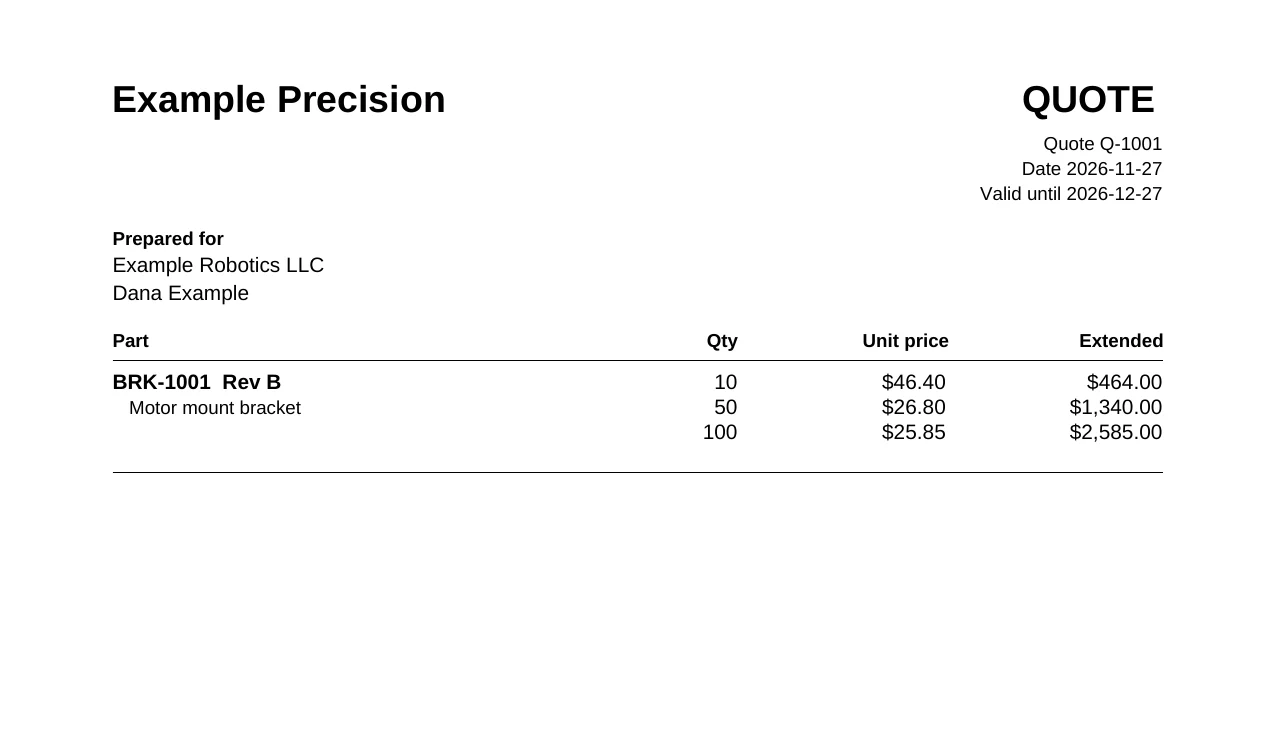
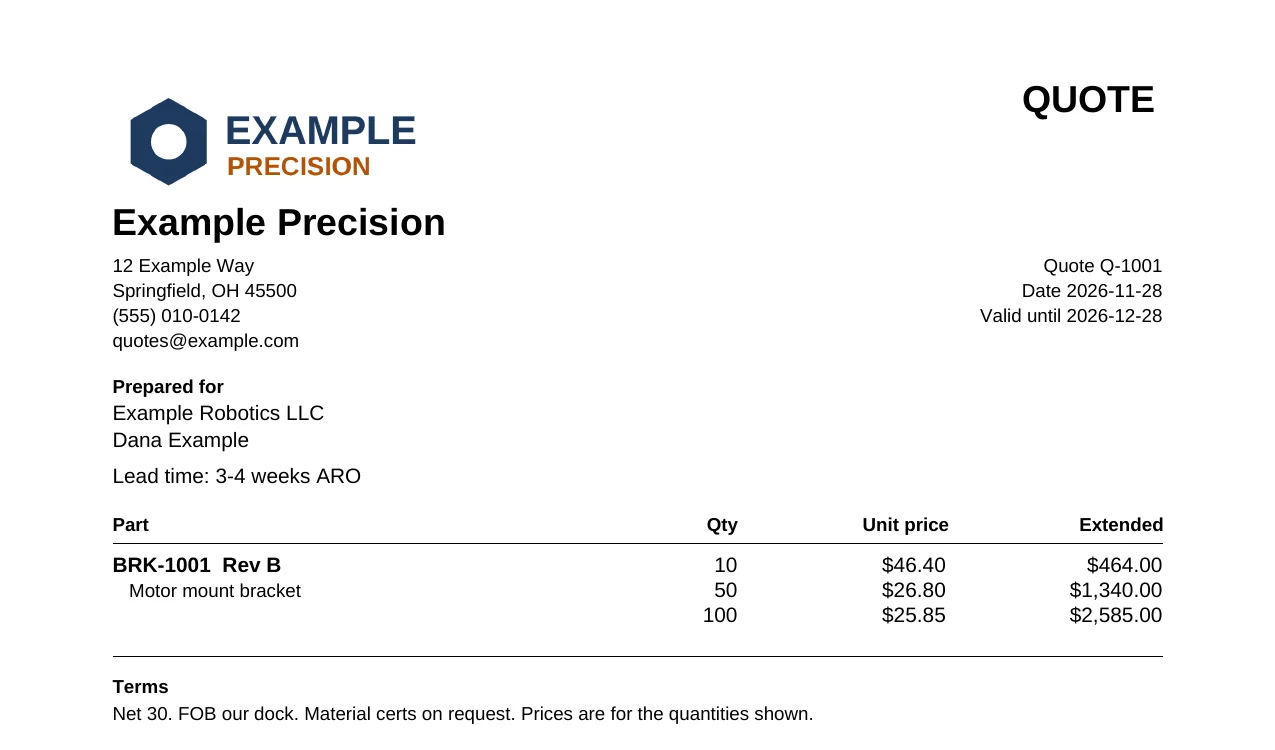
polish: jobshop site shows the quote log and a quote on letterhead [jobshop-quote]
pnpm stills sets the made-up shop's logo, contact lines, lead time and
terms, quotes three more RFQs (won, lost, draft) and shoots the quote
log; the home band gains an "After it's sent" row, the PDF still shows
the letterhead on home, how-it-works and the quote template page.

Prompt-Version: polish/0
Claude-Session: https://claude.ai/code/session_01AcxTtLzBjGfkfbLgZE6Dve

diff --git a/ventures/jobshop-quote/apps/jobshop-quote/test/stills/capture.stills.ts b/ventures/jobshop-quote/apps/jobshop-quote/test/stills/capture.stills.ts
@@ -108,6 +108,54 @@ test("stills of a made-up machine shop quote", async ({ page, browser }) => {
   await page.evaluate(() => window.scrollBy(0, -40));
   await shot(page, "rate-card-desktop");
 
+  // The shop's letterhead on every quote PDF: contact lines, lead time, terms and a logo. The logo is
+  // drawn here on a canvas (an invented mark and the made-up shop's name), not taken from anyone.
+  const rules = card(page, "Shop and pricing rules");
+  await field(rules, "Phone").fill("(555) 010-0142");
+  await field(rules, "Email").fill("quotes@example.com");
+  await field(rules, "Address (one line each)").fill("12 Example Way\nSpringfield, OH 45500");
+  await field(rules, "Default lead time").fill("3-4 weeks ARO");
+  await field(rules, "Terms (printed on quotes)").fill(
+    "Net 30. FOB our dock. Material certs on request. Prices are for the quantities shown.",
+  );
+  await rules.getByRole("button", { name: "Save" }).click();
+  await settle(page);
+  const logo = await page.evaluate(async () => {
+    const c = document.createElement("canvas");
+    c.width = 720;
+    c.height = 216;
+    const g = c.getContext("2d");
+    if (!g) return "";
+    g.fillStyle = "#ffffff";
+    g.fillRect(0, 0, c.width, c.height);
+    // A hexagon (a nut seen end-on) with a bore, then the shop's name.
+    g.fillStyle = "#1e3a5f";
+    g.beginPath();
+    for (let i = 0; i < 6; i++) {
+      const a = (Math.PI / 3) * i + Math.PI / 6;
+      g.lineTo(108 + 84 * Math.cos(a), 108 + 84 * Math.sin(a));
+    }
+    g.closePath();
+    g.fill();
+    g.fillStyle = "#ffffff";
+    g.beginPath();
+    g.arc(108, 108, 34, 0, Math.PI * 2);
+    g.fill();
+    g.fillStyle = "#1e3a5f";
+    g.font = "bold 76px sans-serif";
+    g.fillText("EXAMPLE", 216, 112);
+    g.fillStyle = "#b45309";
+    g.font = "600 50px sans-serif";
+    g.fillText("PRECISION", 220, 172);
+    return c.toDataURL("image/png").split(",")[1] ?? "";
+  });
+  await page.getByLabel("Upload logo").setInputFiles({
+    name: "example-precision-logo.png",
+    mimeType: "image/png",
+    buffer: Buffer.from(logo, "base64"),
+  });
+  await expect(page.getByAltText("Shop logo as it prints on quotes")).toBeVisible();
+
   // An RFQ whose part is entered by hand (the offline extractor may add an empty part; it is removed).
   await page.getByRole("link", { name: "RFQs" }).click();
   const newRfq = card(page, "New RFQ");
@@ -273,7 +321,112 @@ test("stills of a made-up machine shop quote", async ({ page, browser }) => {
   renameSync(join(OUT, "customer-pdf-page1.png"), join(OUT, "customer-pdf.png"));
   await buyer.close();
 
+  // The quote log: three more made-up RFQs quoted the same way, one won, one lost, one still a
+  // draft, so the log, its totals and the follow-up list show a shop's week rather than one quote.
+  const more = [
+    {
+      subject: "Sensor plates",
+      company: "Sample Fluidics Inc.",
+      contact: "Lee Sample",
+      part: "SP-220",
+      desc: "Sensor plate",
+      qty: "25, 100",
+      l: "6",
+      w: "4",
+      t: "0.375",
+      setup: "45",
+      cycle: "9",
+      outcome: "won",
+    },
+    {
+      subject: "Cover plates, rush",
+      company: "Demo Aero Components",
+      contact: "Pat Demo",
+      part: "CVR-12",
+      desc: "Access cover",
+      qty: "20",
+      l: "8",
+      w: "5",
+      t: "0.25",
+      setup: "40",
+      cycle: "15",
+      outcome: "lost",
+    },
+    {
+      subject: "Fixture blocks",
+      company: "Example Robotics LLC",
+      contact: "Dana Example",
+      part: "FXB-3",
+      desc: "Fixture block",
+      qty: "4",
+      l: "5",
+      w: "3",
+      t: "2",
+      setup: "90",
+      cycle: "35",
+      outcome: "draft",
+    },
+  ] as const;
+  for (const m of more) {
+    await page.getByRole("link", { name: "RFQs" }).click();
+    const rfq = card(page, "New RFQ");
+    await field(rfq, "Subject").fill(m.subject);
+    await field(rfq, "Paste the RFQ email").fill(`Please quote ${m.part}, drawing attached.`);
+    await rfq.getByRole("button", { name: "Create and extract" }).click();
+    await page.waitForURL(/\/rfqs\/[^/]+$/);
+    await expect(page.getByRole("heading", { level: 1, name: m.subject })).toBeVisible();
+    const who = card(page, "Customer");
+    await field(who, "Company").fill(m.company);
+    await field(who, "Contact").fill(m.contact);
+    await who.getByRole("button", { name: "Save" }).click();
+    await settle(page);
+    while ((await parts.count()) > 0) {
+      const n = await parts.count();
+      await parts.first().getByRole("button", { name: "Remove" }).click();
+      await expect(parts).toHaveCount(n - 1);
+    }
+    await page.getByRole("button", { name: "Add part by hand" }).click();
+    await field(parts.first(), "Part number").fill(m.part);
+    const pc = card(page, new RegExp(`^${m.part}`));
+    await field(pc, "Description").fill(m.desc);
+    await field(pc, "Quantities").fill(m.qty);
+    await field(pc, "Rate-card material").selectOption({ label: "Aluminum 6061-T6 plate" });
+    await pc.getByRole("button", { name: "Save" }).click();
+    await settle(page);
+    await pc.getByRole("button", { name: "Confirm" }).click();
+    await expect(pc.getByText("confirmed", { exact: true })).toBeVisible();
+    await page.getByRole("button", { name: "Quote 1 confirmed part" }).click();
+    await page.waitForURL(/\/quotes\/[^/]+$/);
+    const ln = card(page, new RegExp(`^${m.part}`));
+    await field(ln, "Blank").selectOption({ label: "Plate / block (L×W×T in)" });
+    await field(ln, "Length in").fill(m.l);
+    await field(ln, "Width in").fill(m.w);
+    await field(ln, "Thickness in").fill(m.t);
+    await ln.getByRole("button", { name: "+ Operation" }).click();
+    await field(ln, "Op").fill("Op 10 mill");
+    await field(ln, "Setup min").fill(m.setup);
+    await field(ln, "Cycle min/pc").fill(m.cycle);
+    await ln.getByRole("button", { name: "Save line" }).click();
+    await expect(ln.getByText("priced", { exact: true })).toBeVisible();
+    if (m.outcome === "draft") continue;
+    await page.getByRole("button", { name: "Mark sent" }).click();
+    const outcome = card(page, "Outcome");
+    await expect(outcome).toBeVisible();
+    if (m.outcome === "won") {
+      await field(outcome, "PO number").fill("PO-4417");
+      await outcome.getByRole("button", { name: "Won", exact: true }).click();
+    } else {
+      await field(outcome, "Lost reason").fill("lead time");
+      await outcome.getByRole("button", { name: "Lost", exact: true }).click();
+    }
+    await expect(page.getByText(m.outcome, { exact: true }).first()).toBeVisible();
+  }
+  await page.goto(orgPath);
+  await expect(card(page, "Quote log").getByRole("row")).toHaveCount(5);
+  await shot(page, "quote-log-desktop");
+
   for (const name of [
+    "quote-log-desktop",
     "rate-card-desktop",
     "quote-line-desktop",
     "quote-phone",

diff --git a/ventures/jobshop-quote/apps/jobshop-site/src/site/pages.ts b/ventures/jobshop-quote/apps/jobshop-site/src/site/pages.ts
@@ -102,13 +102,19 @@ export const SHOTS = {
     file: "customer-pdf.webp",
     width: 1275,
     height: 750,
-    alt: "The top of the quote PDF the customer receives: the shop's name, Example Precision, and QUOTE with quote number Q-1001, the date and a valid-until date a month later; prepared for Example Robotics LLC, Dana Example; then part BRK-1001 Rev B, motor mount bracket, at 10, 50 and 100 pieces for $46.40, $26.80 and $25.85 each ($464.00, $1,340.00 and $2,585.00). No costs, rates or markup appear.",
+    alt: "The top of the quote PDF the customer receives, on the shop's letterhead: a made-up logo (a hexagon and the words Example Precision), the shop's name, address, phone and email, and QUOTE with quote number Q-1001, the date and a valid-until date a month later; prepared for Example Robotics LLC, Dana Example, with a lead time of 3-4 weeks ARO; part BRK-1001 Rev B, motor mount bracket, at 10, 50 and 100 pieces for $46.40, $26.80 and $25.85 each ($464.00, $1,340.00 and $2,585.00); and the shop's terms, Net 30, FOB our dock. No costs, rates or markup appear.",
   },
   customerPage: {
     file: "customer-quote-phone.webp",
     width: 390,
-    height: 944,
-    alt: "The customer's page for the same quote on a phone, opened from a link with no account: the shop's name, the quote number and dates, a link to the PDF as sent, and an Accept this quote form where the buyer picks 10, 50 or 100 of BRK-1001 at the quoted prices or not ordering the part, sees the total, types their name, email, PO number and a note, and accepts the quote or declines it.",
+    height: 1082,
+    alt: "The customer's page for the same quote on a phone, opened from a link with no account: the shop's name and contact lines, the quote number, dates and lead time, a link to the PDF as sent, and an Accept this quote form where the buyer picks 10, 50 or 100 of BRK-1001 at the quoted prices or not ordering the part, sees the total, types their name, email, PO number and a note, and accepts the quote or declines it, with the shop's terms below.",
+  },
+  quoteLog: {
+    file: "quote-log-desktop.webp",
+    width: 1280,
+    height: 860,
+    alt: "The quote log in Job Shop Quote for a made-up shop: totals for open quotes (1), win rate (50%, 1 won of 2 decided), won ($536.25) and quoted ($1,635.25); a follow-up card with one follow-up coming up in the next 7 days and the days-after-sending setting; and four quotes, Q-1004 draft for Example Robotics LLC ($422.12), Q-1003 lost on lead time to Demo Aero Components ($635.00), Q-1002 won from Sample Fluidics Inc. ($536.25) and Q-1001 sent to Example Robotics LLC ($464.00).",
   },
 } as const;
 
@@ -145,13 +151,15 @@ function appShots(ctx: RenderContext): Html {
     <div class="shots">
       <figure class="shot shot-wide">
         <a class="shot-link" href="${href(ctx, `/shots/${SHOTS.customerPdf.file}`)}">${shotImg(ctx, SHOTS.customerPdf)}</a>
-        <figcaption>The quote PDF: prices for each quantity break and the dates, with your notes and terms when you set them. The costs, rates and markup behind them stay in the app.</figcaption>
+        <figcaption>The quote PDF on your letterhead: your logo and contact lines, prices for each quantity break, the dates, the lead time and your terms. The costs, rates and markup behind them stay in the app.</figcaption>
       </figure>
       <figure class="shot shot-phone">
         ${shotImg(ctx, SHOTS.customerPage)}
         <figcaption>The link you can send with it: the customer picks a quantity, adds a PO number and accepts, or declines, with no account.</figcaption>
       </figure>
     </div>
+    <h3 class="center shots-sub">After it's sent</h3>
+    ${shotFigure(ctx, SHOTS.quoteLog, "The quote log: every quote with its status and value, your win rate, and the sent quotes due for a follow-up, so an open quote doesn't go quiet. Four made-up quotes for three made-up customers.")}
     <p class="center"><a class="link" href="${href(ctx, "/how-it-works")}">How the price is built, step by step →</a></p>
   </div>
 </section>`;
@@ -407,7 +415,7 @@ export function howItWorksPage(ctx: RenderContext): Html {
       or have ${SITE_NAME} email it from your estimator's send button. It never sends a quote on its own.
       With it can go a link where the customer picks a quantity and accepts, with a PO number, or
       declines; the answer shows on the quote, which is marked won or lost.</p>
-      ${shotFigure(ctx, SHOTS.customerPdf, "What the customer receives: prices for every quantity break, the dates, your notes and terms when set, and none of the costs, rates or markup behind them. Made-up shop and customer.")}`,
+      ${shotFigure(ctx, SHOTS.customerPdf, "What the customer receives, on your letterhead: your logo and contact lines, prices for every quantity break, the dates, lead time and terms, and none of the costs, rates or markup behind them. Made-up shop, logo and customer.")}`,
     },
   ];
   const wont = [
@@ -1642,6 +1650,7 @@ export function quoteTemplatePage(ctx: RenderContext): Html {
     checks and sends it; the customer gets a link to accept or decline, and the app reminds you about
     follow-ups and quotes about to expire. You can
     <a class="link" href="${href(ctx, "/how-it-works")}">see how a quote is built</a>.</p>
+    ${shotFigure(ctx, SHOTS.customerPdf, "A quote from the app, on a made-up shop's letterhead: the same header, customer, quantity breaks and terms as the template, filled in from the rate card.")}
     <p class="fineprint">This page describes common practice for job-shop quotes. It is not legal, tax or
     financial advice, and the example's names, dates and prices are made up. Check every quote before you
     send it.</p>

diff --git a/ventures/jobshop-quote/apps/jobshop-site/catalogue-export/index.html b/ventures/jobshop-quote/apps/jobshop-site/catalogue-export/index.html
@@ -98,14 +98,19 @@
     <h3 class="center shots-sub">What your customer gets</h3>
     <div class="shots">
       <figure class="shot shot-wide">
-        <a class="shot-link" href="/jobshop/shots/customer-pdf.webp"><img src="/jobshop/shots/customer-pdf.webp" width="1275" height="750" loading="lazy" decoding="async" alt="The top of the quote PDF the customer receives: the shop&#39;s name, Example Precision, and QUOTE with quote number Q-1001, the date and a valid-until date a month later; prepared for Example Robotics LLC, Dana Example; then part BRK-1001 Rev B, motor mount bracket, at 10, 50 and 100 pieces for $46.40, $26.80 and $25.85 each ($464.00, $1,340.00 and $2,585.00). No costs, rates or markup appear."></a>
-        <figcaption>The quote PDF: prices for each quantity break and the dates, with your notes and terms when you set them. The costs, rates and markup behind them stay in the app.</figcaption>
+        <a class="shot-link" href="/jobshop/shots/customer-pdf.webp"><img src="/jobshop/shots/customer-pdf.webp" width="1275" height="750" loading="lazy" decoding="async" alt="The top of the quote PDF the customer receives, on the shop&#39;s letterhead: a made-up logo (a hexagon and the words Example Precision), the shop&#39;s name, address, phone and email, and QUOTE with quote number Q-1001, the date and a valid-until date a month later; prepared for Example Robotics LLC, Dana Example, with a lead time of 3-4 weeks ARO; part BRK-1001 Rev B, motor mount bracket, at 10, 50 and 100 pieces for $46.40, $26.80 and $25.85 each ($464.00, $1,340.00 and $2,585.00); and the shop&#39;s terms, Net 30, FOB our dock. No costs, rates or markup appear."></a>
+        <figcaption>The quote PDF on your letterhead: your logo and contact lines, prices for each quantity break, the dates, the lead time and your terms. The costs, rates and markup behind them stay in the app.</figcaption>
       </figure>
       <figure class="shot shot-phone">
-        <img src="/jobshop/shots/customer-quote-phone.webp" width="390" height="944" loading="lazy" decoding="async" alt="The customer&#39;s page for the same quote on a phone, opened from a link with no account: the shop&#39;s name, the quote number and dates, a link to the PDF as sent, and an Accept this quote form where the buyer picks 10, 50 or 100 of BRK-1001 at the quoted prices or not ordering the part, sees the total, types their name, email, PO number and a note, and accepts the quote or declines it.">
+        <img src="/jobshop/shots/customer-quote-phone.webp" width="390" height="1082" loading="lazy" decoding="async" alt="The customer&#39;s page for the same quote on a phone, opened from a link with no account: the shop&#39;s name and contact lines, the quote number, dates and lead time, a link to the PDF as sent, and an Accept this quote form where the buyer picks 10, 50 or 100 of BRK-1001 at the quoted prices or not ordering the part, sees the total, types their name, email, PO number and a note, and accepts the quote or declines it, with the shop&#39;s terms below.">
         <figcaption>The link you can send with it: the customer picks a quantity, adds a PO number and accepts, or declines, with no account.</figcaption>
       </figure>
     </div>
+    <h3 class="center shots-sub">After it's sent</h3>
+    <figure class="shot">
+  <a class="shot-link" href="/jobshop/shots/quote-log-desktop.webp"><img src="/jobshop/shots/quote-log-desktop.webp" width="1280" height="860" loading="lazy" decoding="async" alt="The quote log in Job Shop Quote for a made-up shop: totals for open quotes (1), win rate (50%, 1 won of 2 decided), won ($536.25) and quoted ($1,635.25); a follow-up card with one follow-up coming up in the next 7 days and the days-after-sending setting; and four quotes, Q-1004 draft for Example Robotics LLC ($422.12), Q-1003 lost on lead time to Demo Aero Components ($635.00), Q-1002 won from Sample Fluidics Inc. ($536.25) and Q-1001 sent to Example Robotics LLC ($464.00)."></a>
+  <figcaption>The quote log: every quote with its status and value, your win rate, and the sent quotes due for a follow-up, so an open quote doesn&#39;t go quiet. Four made-up quotes for three made-up customers.</figcaption>
+</figure>
     <p class="center"><a class="link" href="/jobshop/how-it-works">How the price is built, step by step →</a></p>
   </div>
 </section>

diff --git a/ventures/jobshop-quote/apps/jobshop-site/catalogue-export/how-it-works.html b/ventures/jobshop-quote/apps/jobshop-site/catalogue-export/how-it-works.html
@@ -83,8 +83,8 @@
       With it can go a link where the customer picks a quantity and accepts, with a PO number, or
       declines; the answer shows on the quote, which is marked won or lost.</p>
       <figure class="shot">
-  <a class="shot-link" href="/jobshop/shots/customer-pdf.webp"><img src="/jobshop/shots/customer-pdf.webp" width="1275" height="750" loading="lazy" decoding="async" alt="The top of the quote PDF the customer receives: the shop&#39;s name, Example Precision, and QUOTE with quote number Q-1001, the date and a valid-until date a month later; prepared for Example Robotics LLC, Dana Example; then part BRK-1001 Rev B, motor mount bracket, at 10, 50 and 100 pieces for $46.40, $26.80 and $25.85 each ($464.00, $1,340.00 and $2,585.00). No costs, rates or markup appear."></a>
-  <figcaption>What the customer receives: prices for every quantity break, the dates, your notes and terms when set, and none of the costs, rates or markup behind them. Made-up shop and customer.</figcaption>
+  <a class="shot-link" href="/jobshop/shots/customer-pdf.webp"><img src="/jobshop/shots/customer-pdf.webp" width="1275" height="750" loading="lazy" decoding="async" alt="The top of the quote PDF the customer receives, on the shop&#39;s letterhead: a made-up logo (a hexagon and the words Example Precision), the shop&#39;s name, address, phone and email, and QUOTE with quote number Q-1001, the date and a valid-until date a month later; prepared for Example Robotics LLC, Dana Example, with a lead time of 3-4 weeks ARO; part BRK-1001 Rev B, motor mount bracket, at 10, 50 and 100 pieces for $46.40, $26.80 and $25.85 each ($464.00, $1,340.00 and $2,585.00); and the shop&#39;s terms, Net 30, FOB our dock. No costs, rates or markup appear."></a>
+  <figcaption>What the customer receives, on your letterhead: your logo and contact lines, prices for every quantity break, the dates, lead time and terms, and none of the costs, rates or markup behind them. Made-up shop, logo and customer.</figcaption>
 </figure></li>
     </ol>
   </div>

diff --git a/ventures/jobshop-quote/apps/jobshop-site/catalogue-export/machine-shop-quote-template.html b/ventures/jobshop-quote/apps/jobshop-site/catalogue-export/machine-shop-quote-template.html
@@ -118,6 +118,10 @@
     checks and sends it; the customer gets a link to accept or decline, and the app reminds you about
     follow-ups and quotes about to expire. You can
     <a class="link" href="/jobshop/how-it-works">see how a quote is built</a>.</p>
+    <figure class="shot">
+  <a class="shot-link" href="/jobshop/shots/customer-pdf.webp"><img src="/jobshop/shots/customer-pdf.webp" width="1275" height="750" loading="lazy" decoding="async" alt="The top of the quote PDF the customer receives, on the shop&#39;s letterhead: a made-up logo (a hexagon and the words Example Precision), the shop&#39;s name, address, phone and email, and QUOTE with quote number Q-1001, the date and a valid-until date a month later; prepared for Example Robotics LLC, Dana Example, with a lead time of 3-4 weeks ARO; part BRK-1001 Rev B, motor mount bracket, at 10, 50 and 100 pieces for $46.40, $26.80 and $25.85 each ($464.00, $1,340.00 and $2,585.00); and the shop&#39;s terms, Net 30, FOB our dock. No costs, rates or markup appear."></a>
+  <figcaption>A quote from the app, on a made-up shop&#39;s letterhead: the same header, customer, quantity breaks and terms as the template, filled in from the rate card.</figcaption>
+</figure>
     <p class="fineprint">This page describes common practice for job-shop quotes. It is not legal, tax or
     financial advice, and the example's names, dates and prices are made up. Check every quote before you
     send it.</p>

diff --git a/docs/reports/polish-2026-11-28-jobshop-quote-log-letterhead.md b/docs/reports/polish-2026-11-28-jobshop-quote-log-letterhead.md
@@ -1,0 +1,62 @@
+---
+kind: polish
+topics: [design, seo]
+date: 2026-11-28
+---
+
+# Polish 2026-11-28: the quote log and a quote on letterhead, on the Job Shop Quote site
+
+Track: polish/0. Items 2 and 3 of
+[polish-2026-11-27-jobshop-customer-shots.md](polish-2026-11-27-jobshop-customer-shots.md). Item 1 (the CAD
+gap) is product work for a ventures run and is left for one.
+
+The site for bet #2 (https://marisstella.app/jobshop/) showed one quote being built and what the customer
+receives, but not the shop's day-to-day view (which quotes are open, won, lost, due a follow-up), and the
+PDF still printed a bare shop name, which undercut the "PDF on your letterhead" line in How it works.
+
+## What changed
+
+- **`pnpm stills`** (`apps/jobshop-quote/test/stills/capture.stills.ts`):
+  - after the rate-card shot, fills the shop's phone, email, address, default lead time and terms in
+    **Shop and pricing rules** and uploads a logo drawn on a canvas in the test (a hexagon and the made-up
+    shop's name; nothing taken from anyone). The rate-card, quote-line and quote-phone stills re-encode
+    byte-identical, so the hand-checked prices are untouched.
+  - after the customer stills, quotes three more made-up RFQs through the same UI path (hand-entered part,
+    plate blank, one mill operation), marks one sent and won (PO), one sent and lost ("lead time") and leaves
+    one a draft, asserts the log has the 4 rows, and shoots the quote log at 1280x860
+    (`quote-log-desktop.webp`, 45 KB).
+  - `customer-pdf.webp` now shows logo, contact lines, lead time and terms (same 1275x750 crop: the terms
+    fit in the top 5 inches); `customer-quote-phone.webp` shows the contact lines and terms card (390x1082
+    CSS, was 944).
+- **Site (`apps/jobshop-site/src/site/pages.ts`):** a third row in the home page's app band, **After it's
+  sent**, with the quote log; alt text and captions for the PDF and customer page updated to what they now
+  show; How it works step 5's caption names the letterhead; the quote template page shows the app's PDF
+  under "Doing it in Job Shop Quote", so the template and the product sit side by side.
+- `catalogue-export/` regenerated.
+
+## Measured
+
+Chromium, `catalogue-export/` served under `/jobshop/`:
+
+| | before | after |
+|---|---|---|
+| stills of the shop's quote list / win rate / follow-ups | 0 | 1 (home) |
+| PDF still shows logo, contact lines, terms | no | yes (home, how it works, template page) |
+| `scrollWidth` at 390 / 1280, home, how-it-works, template, light and dark | 390 / 1280 | 390 / 1280 |
+| page errors / failed requests | 0 | 0 |
+| jobshop-site unit tests (`shots.test.ts` covers the new still: listed, shown, real size, lazy, alt 80+) | 82 | 83 |
+| `tsc --noEmit` (site, app), `biome check` on changed files | pass | pass |
+| `node --test platform/pages/jobshop-site*.test.mjs` | 6 pass | 6 pass |
+
+![The band at 1280 px](img/polish-2026-11-28-jobshop-quote-log-home-1280.webp)
+![The band at 390 px](img/polish-2026-11-28-jobshop-quote-log-home-390.webp)
+
+## Still weakest, next
+
+1. The CAD gap (product work, bet #2's core promise): a hand-entered part never gets its STEP/DXF
+   measurements. See [polish-2026-11-27-jobshop-shots.md](polish-2026-11-27-jobshop-shots.md).
+2. The how-it-works page still describes AI reading in steps 2 and 3 with "not switched on" notes.
+3. The site has no dark mode (`color-scheme: light`).
+4. The home band is long at 1280 px now that the customer-page phone still is 1082 px tall: crop it at the
+   accept button, or show the terms card on the PDF only.
+5. No still of win/loss by customer or shop load (both are in the app, both claimed in the feature list).
